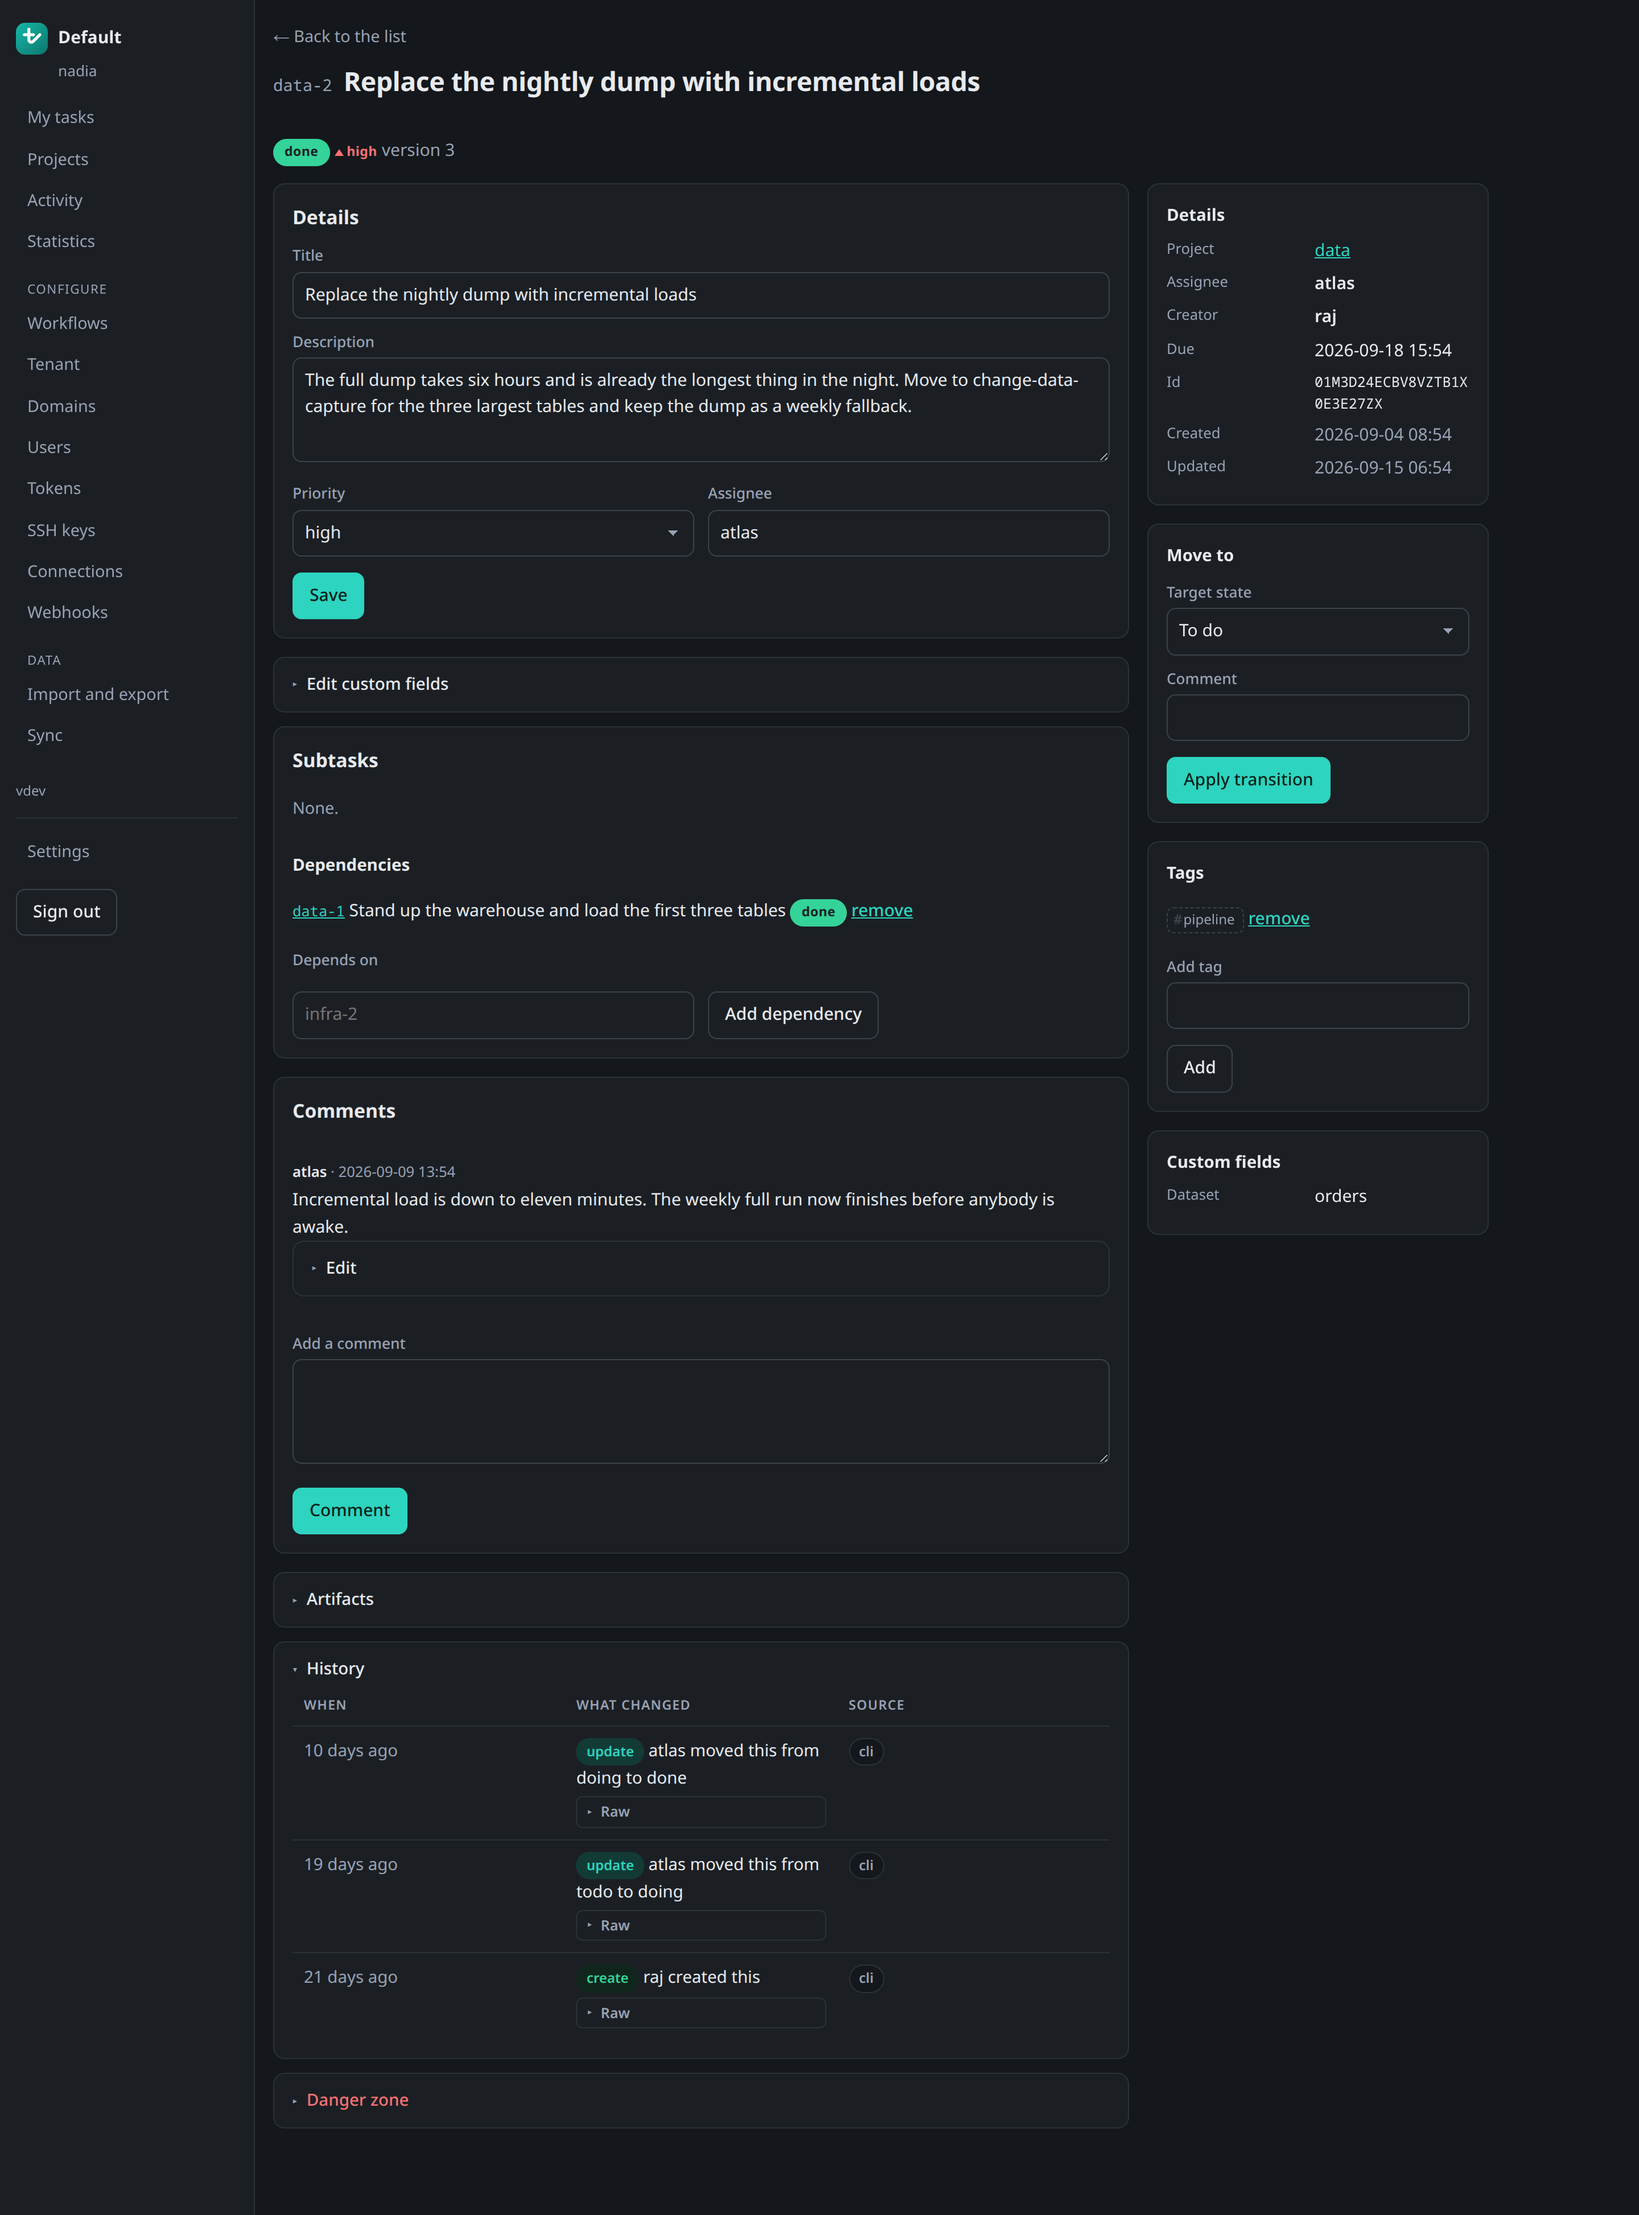
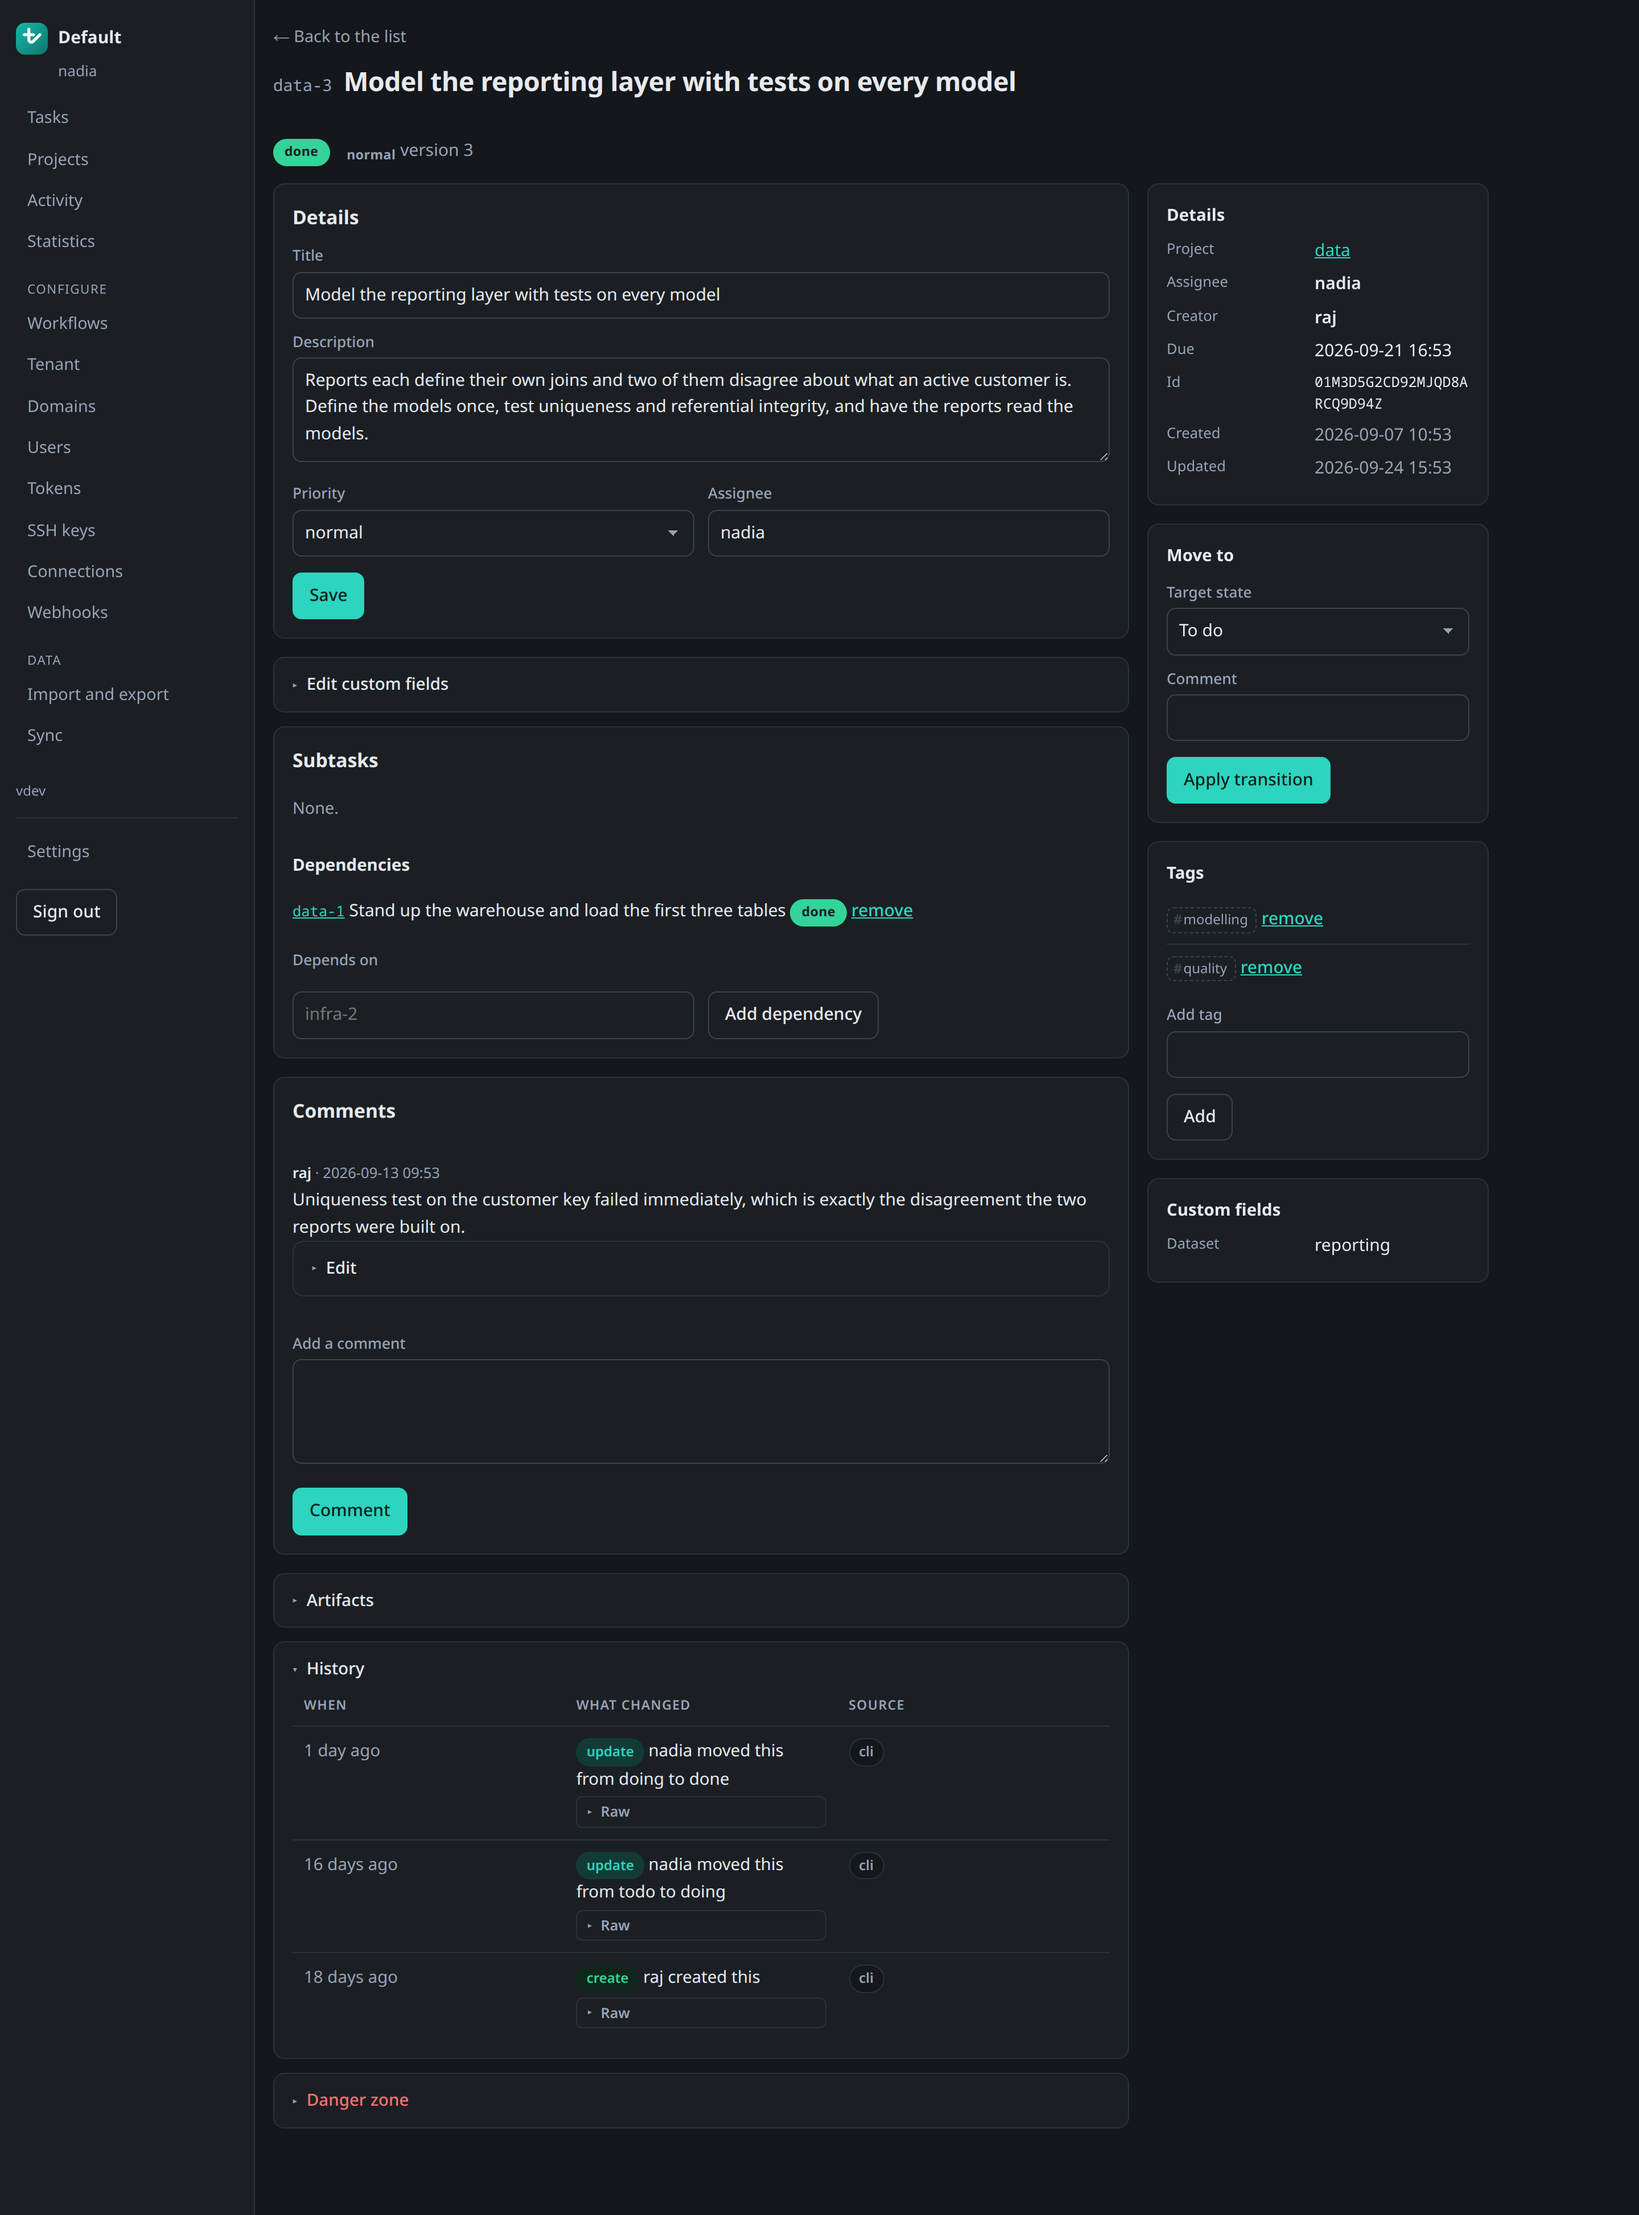
docs: recapture the screens after the seed and the tenant screen changed
The images came from a seed that no longer exists and from a tenant
screen that showed raw Go durations. The task list now shows the
expired-claim badge on the first page beside the pager, which was not
photographable before: both abandoned claims sat past row 50.

Also carries the spec deltas for the second review pass.

diff --git a/openspec/changes/v0-5-0-polish/specs/web-ui/spec.md b/openspec/changes/v0-5-0-polish/specs/web-ui/spec.md
@@ -342,3 +342,91 @@ Each choice's submit SHALL name what it commits, since two controls in one panel
 
 - **WHEN** the panel is open
 - **THEN** each submit names the choice it applies
+
+### Requirement: The task listing is named for what it shows
+
+The task listing SHALL carry a heading, and a navigation entry, that name the set of tasks it actually
+renders. The listing is the tenant's queue: it carries every actor's rows, people and agents alike, and
+the summary beneath it counts the projects they span and the ones an agent is holding.
+
+The listing SHALL NOT be presented as the reader's own work while it renders everybody's. A reader who
+wants only their own rows already has a precise way to ask for them, the `assignee:<handle>` term of the
+filter expression, which the assignee column writes into the filter box in one click; a heading is not a
+second, weaker way of saying the same thing.
+
+The heading and the navigation entry SHALL agree with each other and with the rows below them, so that
+neither can be corrected while the other goes on claiming otherwise.
+
+#### Scenario: The listing carries rows assigned to other actors
+
+- **WHEN** the task listing renders rows belonging to several actors
+- **THEN** its heading names the listing rather than claiming it is the reader's own work
+
+#### Scenario: The entry that leads to it
+
+- **WHEN** the navigation is rendered
+- **THEN** the entry leading to the task listing names it the same way its heading does
+
+### Requirement: A retention window is written the way it is shown
+
+A retention window SHALL be rendered in the duration vocabulary the product prints elsewhere, so that a
+thirty day window reads as `30d` rather than as `720h0m0s`.
+
+The field SHALL accept every value it renders. A form that prints a value its own handler refuses is a
+form that rejects its own contents on save, so the rendering and the parsing are one change and not two:
+the screen SHALL read a submitted window through the same grammar that produced the value in the box,
+which knows the day unit that Go's own duration syntax does not.
+
+A value that grammar does not accept SHALL still be refused, with a message naming the field and the
+value and saying what a window looks like.
+
+#### Scenario: Saving the value the screen rendered
+
+- **WHEN** the value a retention field renders is submitted back unchanged
+- **THEN** it is accepted, and the field renders the same value again
+
+#### Scenario: A window that is not a duration
+
+- **WHEN** a retention field is submitted with a value the duration grammar does not accept
+- **THEN** the submission is refused and the message says what a window looks like
+
+### Requirement: Every row of the tenant tree carries a figure or says why it has none
+
+Each row of the diagram showing what sits under a tenant SHALL render either its live count or, in the
+count's place, a short statement of why it carries none.
+
+A blank beside a column of figures reads as a count that failed rather than one deliberately not made,
+and a count that really did fail read exactly like one nobody attempted. A row whose figure the service
+cannot produce SHALL name where that figure does live instead: a task listing is paginated by cursor and
+carries no total, and a custom field is declared on one project at a time.
+
+A row whose listing errored SHALL say that its count is unavailable rather than rendering nothing.
+
+#### Scenario: A kind the service can count
+
+- **WHEN** the tenant tree renders a kind whose listing returns
+- **THEN** that row carries the figure
+
+#### Scenario: A kind that has no tenant-wide figure
+
+- **WHEN** the tenant tree renders a kind the service cannot total
+- **THEN** that row says where its figure lives, in the figure's place
+
+#### Scenario: A listing that failed
+
+- **WHEN** a count cannot be made because its listing errored
+- **THEN** the row says the count is unavailable rather than leaving a gap
+
+### Requirement: A field notice sits on the line of the control it explains
+
+The small disclosure that carries a field's explanation SHALL be rendered on the same line as the label
+or control it belongs to.
+
+The disclosure shows only a one-character marker until it is opened, so one left to fall onto a line of
+its own reads as an icon whose text failed to render rather than as an affordance. Placement is therefore
+part of the affordance and not decoration.
+
+#### Scenario: A notice beside a checkbox
+
+- **WHEN** a notice explains a checkbox rather than a labelled input
+- **THEN** it renders on that checkbox's line, as it does beside every other control that carries one

diff --git a/openspec/changes/v0-5-0-polish/tasks.md b/openspec/changes/v0-5-0-polish/tasks.md
@@ -30,6 +30,8 @@
 - [x] `internal/demo`: `--reset` keeps the accounts it cannot recreate, and a re-seed re-credentials them
 - [x] `cmd/demo.go`: `--password`, and the credentials reported in table, json and yaml
 - [x] guard: a freshly seeded and a re-seeded database both authenticate the reported credentials
+- [x] `internal/demo`: completions cluster into bursts and quiet stretches, uneven at 7, 14, 30 and 90 days
+- [x] `internal/demo`: an abandoned claim sits on urgent work, so it lands on the first page of the default sort
 - [ ] screenshots regenerate from the new seed
 
 ## Durations
@@ -119,6 +121,23 @@
 - [x] guard: every refusal, watched to fail with the resolver broken
 - [x] guard: the queries the rule must not refuse, so a narrower status check cannot ship
 - [x] `claim next` obeys the same status rule: an undefined status is not an idle queue
+
+## The release photographs
+
+- [x] the task listing is named for what it renders: "Tasks" in the heading and in the navigation, since
+      the page carries every actor's rows and `assignee:<handle>` already says "mine" precisely
+- [x] guard: the heading read out of the h1 and the entry read out of the navigation, each watched to
+      fail on its own so neither can be corrected while the other still claims otherwise
+- [x] a retention window renders as `30d`, and the field parses what it renders through
+      `core.ParseDuration` rather than `time.ParseDuration`, which knows no day
+- [x] guard: the value the screen printed, submitted back and accepted, watched to fail both with the
+      rendering reverted and with the parser reverted
+- [x] guard: the refusals use values the wider grammar still rejects, since `720h` now passes
+- [x] every row of the tenant tree carries a figure or says why it has none, a failed count included
+- [x] the prune notice sits in a field-label row with the checkbox it explains, instead of falling onto
+      a line of its own as an icon with no text
+- [ ] the tenant screen still fetches a tenant listing it never renders; dropping it also needs the
+      `tenant.list` web binding removed from `internal/capability`, which this change does not own
 
 ## Release
 

diff --git a/openspec/changes/v0-5-0-polish/specs/cli/spec.md b/openspec/changes/v0-5-0-polish/specs/cli/spec.md
@@ -11,7 +11,9 @@ entry written in the same instant as the completion, so data written behind the 
 leaderboard and lead-time figure empty, which is the opposite of the point.
 
 The seeded backlog SHALL carry descriptions, tags, priorities, assignees, due dates and custom fields,
-completions spread across many days and performed by several actors, and lead times that vary.
+completions spread unevenly across many days and performed by several actors, and lead times that vary.
+A completion on every day of the window is as useless to the throughput chart as no completion at all,
+because every value is then also the maximum the bars are scaled against.
 
 #### Scenario: Seeding a scratch database
 
@@ -24,6 +26,18 @@ completions spread across many days and performed by several actors, and lead ti
 - **WHEN** statistics are read over the seeded window
 - **THEN** completions fall on many different days, the leaderboard names more than one actor, and the
   median lead time is not zero
+
+#### Scenario: The throughput chart reads as work rather than a flat wall
+
+- **WHEN** statistics are read over each of the windows the statistics screen offers
+- **THEN** the per-day completion counts within that window differ from one another, so the chart draws
+  bars of differing lengths rather than one identical bar per day
+
+#### Scenario: A dropped claim falls on the first page of the default ordering
+
+- **WHEN** the seeded backlog is listed in the default urgency ordering
+- **THEN** a task carrying a recently expired claim falls inside the first page, so the expiry badge and
+  the pager can be seen on one screen
 
 #### Scenario: A database that already holds work is refused
 
